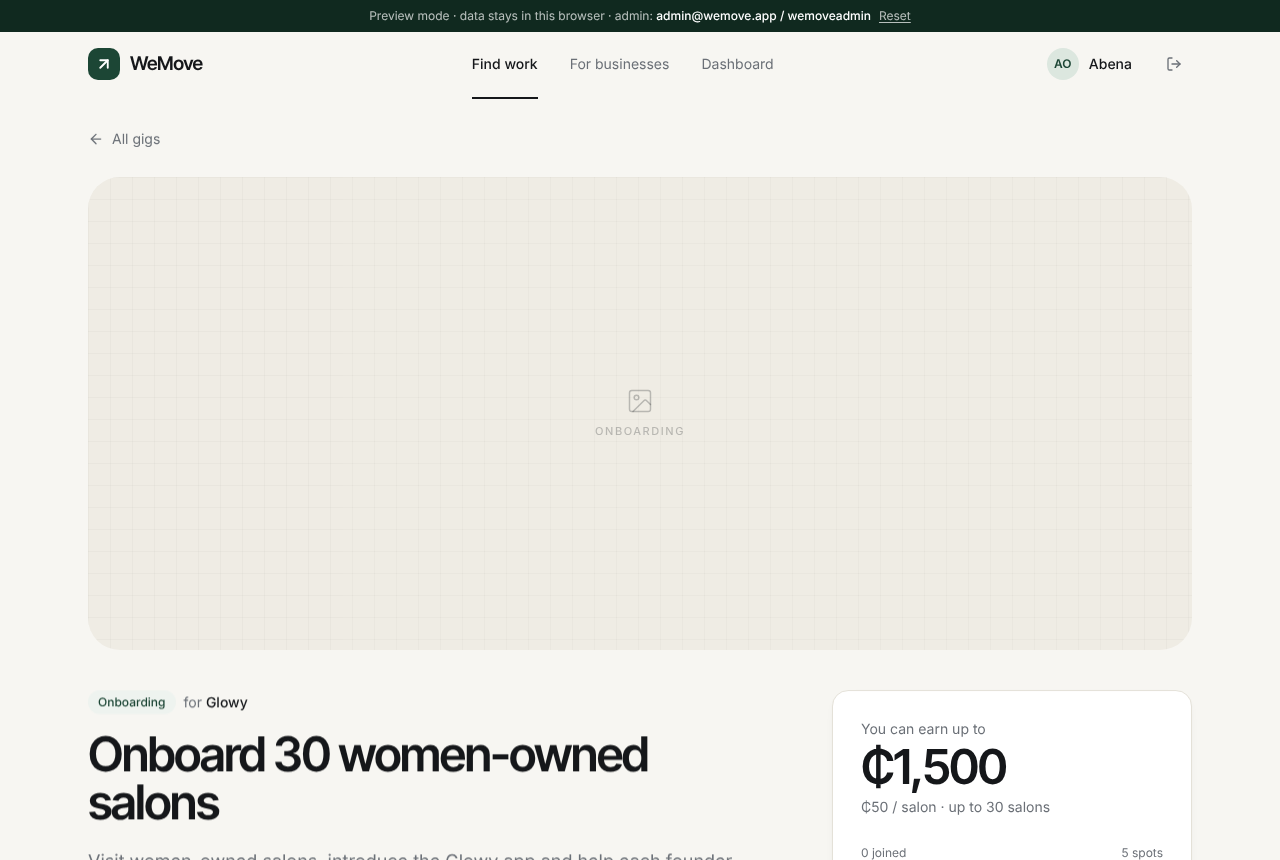
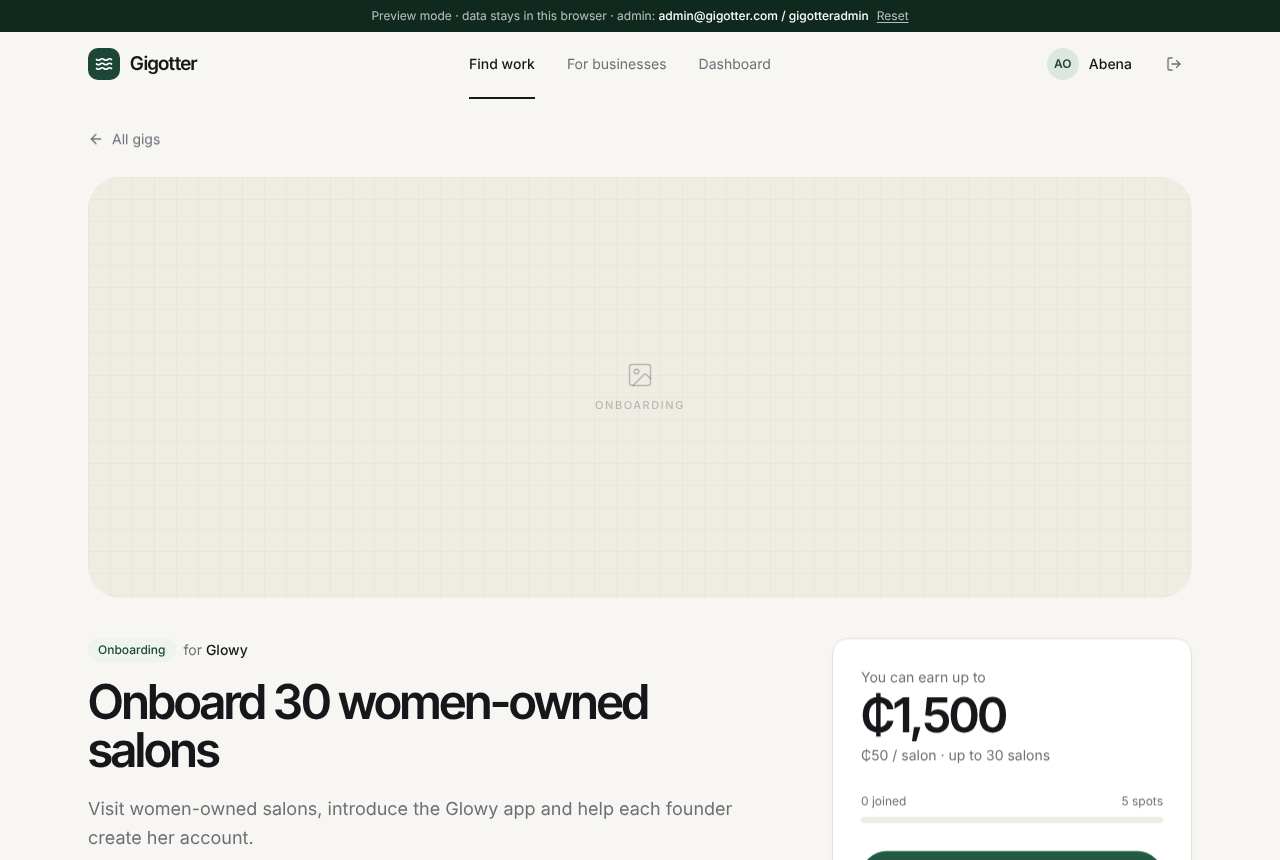
Rebrand to Gigotter
New name, wave logo mark and favicon, admin demo login, contact email
and copy ("Need people on the ground? Send in the otters.").

Claude-Session: https://claude.ai/code/session_01E2vaLUqDfRKS7n3VPqTwzA

diff --git a/src/pages/Landing.tsx b/src/pages/Landing.tsx
@@ -37,7 +37,7 @@ export default function Landing() {
           </motion.h1>
           <motion.p initial={{ opacity: 0, y: 12 }} animate={{ opacity: 1, y: 0 }} transition={{ delay: 0.2, duration: 0.7, ease: EASE }}
             className="mt-6 max-w-[30rem] text-lg leading-relaxed text-ink-muted">
-            WeMove connects verified students with companies that need people on the ground — signing up customers, running focus groups and gathering research. Pick a gig, do the work, get paid to mobile money.
+            Gigotter connects verified students with companies that need people on the ground — signing up customers, running focus groups and gathering research. Pick a gig, do the work, get paid to mobile money.
           </motion.p>
           <motion.div initial={{ opacity: 0, y: 12 }} animate={{ opacity: 1, y: 0 }} transition={{ delay: 0.3, duration: 0.7, ease: EASE }} className="mt-9 flex flex-wrap gap-3">
             <Link to={cta} className="btn-primary px-7 py-3.5">Start earning <ArrowRight className="h-4 w-4" /></Link>
@@ -118,7 +118,7 @@ export default function Landing() {
       <section className="container-x grid gap-14 py-28 md:grid-cols-[.9fr_1.1fr]">
         <Reveal>
           <SectionHead eyebrow="The work" title={<>Flexible work that <span className="em">builds</span> real experience.</>}
-            body="Every gig is paid, clearly scoped and done on your own schedule — between lectures, on weekends or from home. And it all goes on your WeMove record." />
+            body="Every gig is paid, clearly scoped and done on your own schedule — between lectures, on weekends or from home. And it all goes on your Gigotter record." />
           <Link to={cta} className="btn-primary mt-8">Create your profile <ArrowRight className="h-4 w-4" /></Link>
         </Reveal>
         <div className="grid gap-px overflow-hidden rounded-3xl border border-line bg-line sm:grid-cols-2">
@@ -145,7 +145,7 @@ export default function Landing() {
           <div className="grid overflow-hidden rounded-4xl bg-brand-900 text-white md:grid-cols-2">
             <div className="flex flex-col justify-center p-10 md:p-16">
               <div className="eyebrow text-brand-200">For businesses</div>
-              <h2 className="mt-4 text-3xl font-semibold leading-[1.1] tracking-tightest text-white md:text-[2.6rem]">Need people on the ground? <span className="em text-brand-200">We move.</span></h2>
+              <h2 className="mt-4 text-3xl font-semibold leading-[1.1] tracking-tightest text-white md:text-[2.6rem]">Need people on the ground? <span className="em text-brand-200">Send in the otters.</span></h2>
               <p className="mt-5 max-w-md leading-relaxed text-white/65">Tell us what you need — customer sign-ups, market research, product sampling. We scope it, match verified students and you only pay for approved results.</p>
               <div className="mt-8"><Link to="/brief" className="btn bg-white px-7 py-3.5 text-ink hover:bg-brand-50">Post a brief <ArrowRight className="h-4 w-4" /></Link></div>
             </div>
@@ -209,7 +209,7 @@ function FAQ() {
   const [o, setO] = useState<number | null>(0)
   return (
     <section className="container-x grid gap-12 pb-28 md:grid-cols-[.8fr_1.2fr]">
-      <Reveal><SectionHead eyebrow="FAQ" title="Questions, answered." body="Can’t find what you need? Email hello@wemove.app." /></Reveal>
+      <Reveal><SectionHead eyebrow="FAQ" title="Questions, answered." body="Can’t find what you need? Email hello@gigotter.com." /></Reveal>
       <div className="border-t border-line">
         {QA.map(([q, a], i) => (
           <div key={q} className="border-b border-line">

diff --git a/src/components/Layout.tsx b/src/components/Layout.tsx
@@ -1,5 +1,5 @@
 import { AnimatePresence, motion } from 'framer-motion'
-import { ArrowUpRight, LogOut, Menu, X } from 'lucide-react'
+import { LogOut, Menu, Waves, X } from 'lucide-react'
 import { useEffect, useState } from 'react'
 import { Link, NavLink, Outlet, useLocation, useNavigate } from 'react-router-dom'
 import { DEMO, auth, resetDemo } from '../lib/api'
@@ -7,11 +7,11 @@ import { useSession } from '../lib/session'
 
 export function Logo({ className = '', light = false }: { className?: string; light?: boolean }) {
   return (
-    <Link to="/" className={`flex items-center gap-2.5 ${className}`} aria-label="WeMove home">
+    <Link to="/" className={`flex items-center gap-2.5 ${className}`} aria-label="Gigotter home">
       <span className={`grid h-8 w-8 place-items-center rounded-[10px] ${light ? 'bg-white text-brand-900' : 'bg-brand-700 text-white'}`}>
-        <ArrowUpRight className="h-[18px] w-[18px]" strokeWidth={2.5} />
+        <Waves className="h-[18px] w-[18px]" strokeWidth={2.25} />
       </span>
-      <span className={`font-display text-[19px] font-semibold tracking-tight ${light ? 'text-white' : 'text-ink'}`}>WeMove</span>
+      <span className={`font-display text-[19px] font-semibold tracking-tight ${light ? 'text-white' : 'text-ink'}`}>Gigotter</span>
     </Link>
   )
 }
@@ -37,7 +37,7 @@ export default function Layout() {
     <div className="flex min-h-screen flex-col">
       {DEMO && (
         <div className="bg-brand-900 px-4 py-2 text-center text-xs text-white/70">
-          Preview mode · data stays in this browser · admin: <span className="font-medium text-white">admin@wemove.app / wemoveadmin</span>
+          Preview mode · data stays in this browser · admin: <span className="font-medium text-white">admin@gigotter.com / gigotteradmin</span>
           <button onClick={resetDemo} className="ml-2 underline underline-offset-2 hover:text-white">Reset</button>
         </div>
       )}
@@ -106,7 +106,7 @@ export default function Layout() {
           </div>
         </div>
         <div className="container-x flex flex-col gap-2 border-t border-white/10 py-6 text-xs text-white/40 sm:flex-row sm:justify-between">
-          <span>© {new Date().getFullYear()} WeMove. Accra, Ghana.</span>
+          <span>© {new Date().getFullYear()} Gigotter. Accra, Ghana.</span>
           <span>ID documents are stored privately and used only for verification.</span>
         </div>
       </footer>

diff --git a/src/pages/Verify.tsx b/src/pages/Verify.tsx
@@ -69,7 +69,7 @@ export default function Verify() {
     <div className="mx-auto max-w-2xl px-4 py-10">
       <div className="eyebrow">Verification</div>
       <h1 className="mt-3 text-4xl font-semibold tracking-tightest md:text-5xl">Verify your identity</h1>
-      <p className="mt-3 flex items-center gap-2 text-sm text-ink-muted"><Lock className="h-4 w-4" />Your documents are encrypted and seen only by the WeMove verification team.</p>
+      <p className="mt-3 flex items-center gap-2 text-sm text-ink-muted"><Lock className="h-4 w-4" />Your documents are encrypted and seen only by the Gigotter verification team.</p>
       {profile.kyc_status === 'rejected' && profile.kyc_note && (
         <div className="mt-4 rounded-2xl border border-red-200 bg-red-50 p-4 text-sm text-red-800"><b className="font-medium">Please update your details:</b> {profile.kyc_note}</div>
       )}

diff --git a/src/lib/api.ts b/src/lib/api.ts
@@ -21,7 +21,7 @@ interface DemoDB {
   requests: ClientRequest[]
   files: Record<string, string>
 }
-const KEY_DB = 'wemove-demo-v1'
+const KEY_DB = 'gigotter-demo-v1'
 const uid = () => crypto.randomUUID()
 const now = () => new Date().toISOString()
 const listeners = new Set<() => void>()
@@ -33,9 +33,9 @@ function load(): DemoDB {
   } catch { /* storage blocked */ }
   const adminId = uid()
   const db: DemoDB = {
-    users: [{ id: adminId, email: 'admin@wemove.app', password: 'wemoveadmin' }],
+    users: [{ id: adminId, email: 'admin@gigotter.com', password: 'gigotteradmin' }],
     session: null,
-    profiles: [blankProfile(adminId, 'admin@wemove.app', 'WeMove Admin', 'admin')],
+    profiles: [blankProfile(adminId, 'admin@gigotter.com', 'Gigotter Admin', 'admin')],
     listings: seedListings(),
     claims: [], submissions: [], requests: [], files: {},
   }

diff --git a/src/pages/admin/Admin.tsx b/src/pages/admin/Admin.tsx
@@ -274,7 +274,7 @@ function Work({ subs, reload }: { subs: Submission[]; reload: () => void }) {
       e.amount += s.amount ?? 0; e.n++; by.set(k, e)
     })
     const csv = ['name,momo_provider,momo_number,momo_account_name,currency,units,amount', ...[...by.values()].map((e) => [e.name, e.provider, e.number, e.acct, e.cur, e.n, e.amount].map((v) => `"${String(v).replace(/"/g, '""')}"`).join(','))].join('\n')
-    const a = document.createElement('a'); a.href = URL.createObjectURL(new Blob([csv], { type: 'text/csv' })); a.download = `wemove-payouts-${new Date().toISOString().slice(0, 10)}.csv`; a.click()
+    const a = document.createElement('a'); a.href = URL.createObjectURL(new Blob([csv], { type: 'text/csv' })); a.download = `gigotter-payouts-${new Date().toISOString().slice(0, 10)}.csv`; a.click()
   }
   return (
     <div>

diff --git a/index.html b/index.html
@@ -5,7 +5,7 @@
     <link rel="icon" href="/favicon.svg" />
     <meta name="viewport" content="width=device-width, initial-scale=1.0" />
     <meta name="theme-color" content="#F7F6F2" />
-    <title>WeMove — real gigs for students, paid to MoMo</title>
+    <title>Gigotter — real gigs for students, paid to mobile money</title>
     <meta name="description" content="Verified students doing real work for businesses. Onboard businesses, join focus groups, run research. Get paid straight to your MoMo." />
     <link rel="preconnect" href="https://fonts.googleapis.com" />
     <link rel="preconnect" href="https://fonts.gstatic.com" crossorigin />

diff --git a/src/lib/seed.ts b/src/lib/seed.ts
@@ -2,7 +2,7 @@ import type { Listing } from './types'
 
 const days = (n: number) => new Date(Date.now() + n * 864e5).toISOString()
 const base = {
-  description: null, is_remote: false, total_budget: null, status: 'live' as const, client_name: 'WeMove', cover_url: null,
+  description: null, is_remote: false, total_budget: null, status: 'live' as const, client_name: 'Gigotter', cover_url: null,
   proof_fields: ['business_name', 'owner_name', 'owner_phone', 'location'],
 }
 

diff --git a/README.md b/README.md
@@ -1,4 +1,4 @@
-# WeMove
+# Gigotter
 
 A student gig marketplace. Businesses (starting with Glowy) post work; verified students join paid gigs (onboarding businesses, focus groups, field research, surveys), submit proof of work, and get paid to mobile money. An admin portal runs verification, gigs, reviews, and payouts.
 
@@ -11,7 +11,7 @@ npm install
 npm run dev
 ```
 
-With no `.env`, the app runs in **demo mode**: data is stored in your browser and the demo admin login is `admin@wemove.app` / `wemoveadmin`.
+With no `.env`, the app runs in **demo mode**: data is stored in your browser and the demo admin login is `admin@gigotter.com` / `gigotteradmin`.
 
 ## Photos
 
@@ -25,7 +25,7 @@ The design uses real photography. Drop images into `public/images/` using the na
    ```sql
    update public.profiles set role = 'admin' where email = 'you@example.com';
    ```
-4. Under Auth → URL configuration, add your site URL (e.g. `https://wemove.app`) and `/verify` as a redirect.
+4. Under Auth → URL configuration, add your site URL (e.g. `https://gigotter.com`) and `/verify` as a redirect.
 
 Deploy on Vercel as a static Vite app. `vercel.json` already handles SPA routing.
 
